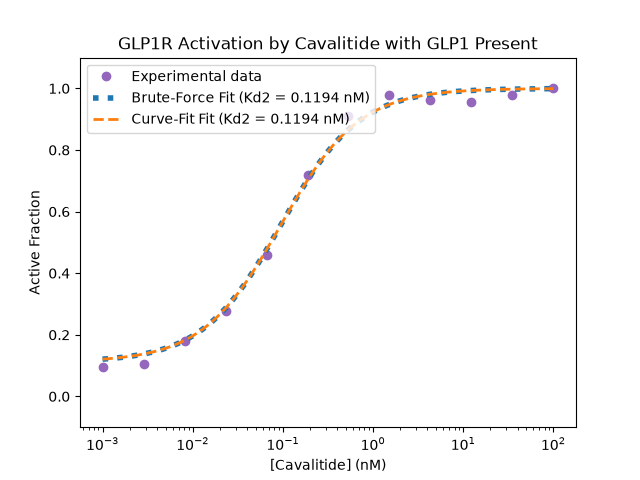
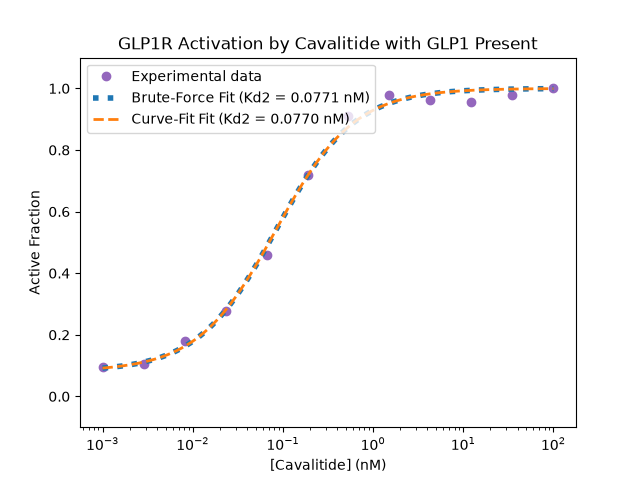
Fixed major bug in code causing incorrect Kd values and binding affinity percentages.

diff --git a/fit_cavalitide.py b/fit_cavalitide.py
@@ -9,7 +9,7 @@ from scipy.optimize import curve_fit
 def Fact(L1, L2, Kd1, Kd2):
     """Fraction of active receptors with two agonists competing for one receptor.
     L1, Kd1 = GLP1 (natual ligand); L2, Kd2 = Cavalitide (drug being tested)"""
-    return (Kd2*L1 + Kd1*L2)/(Kd2*Kd2 + Kd2*L1 + Kd1*L2)
+    return (Kd2*L1 + Kd1*L2)/(Kd1*Kd2 + Kd2*L1 + Kd1*L2) 
 
 # Step 3: State known parameters
 Kd1 = .17                                                               # GLP1 dissociation constant [nM]
